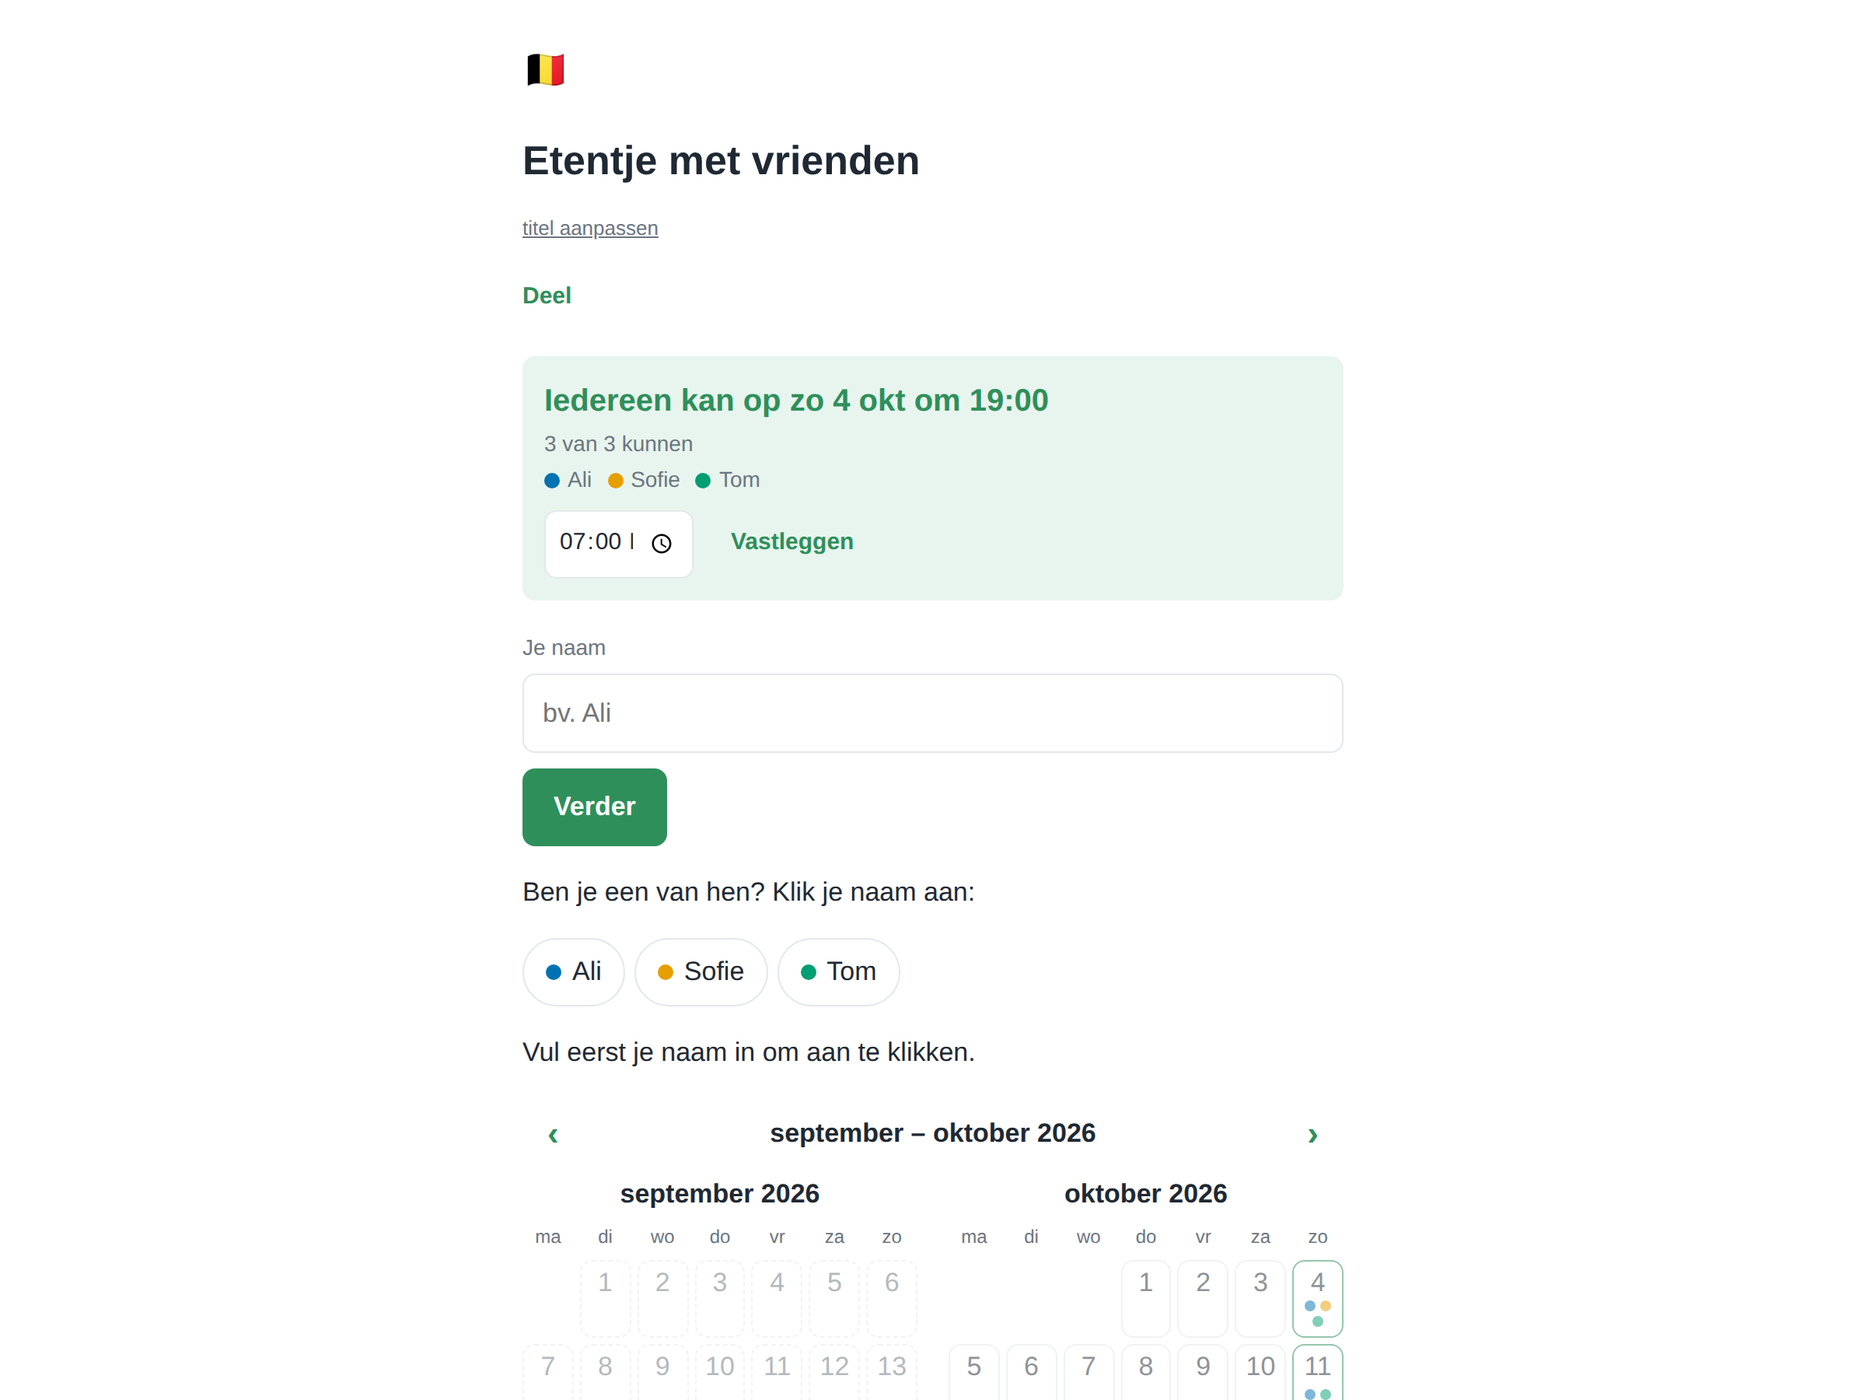
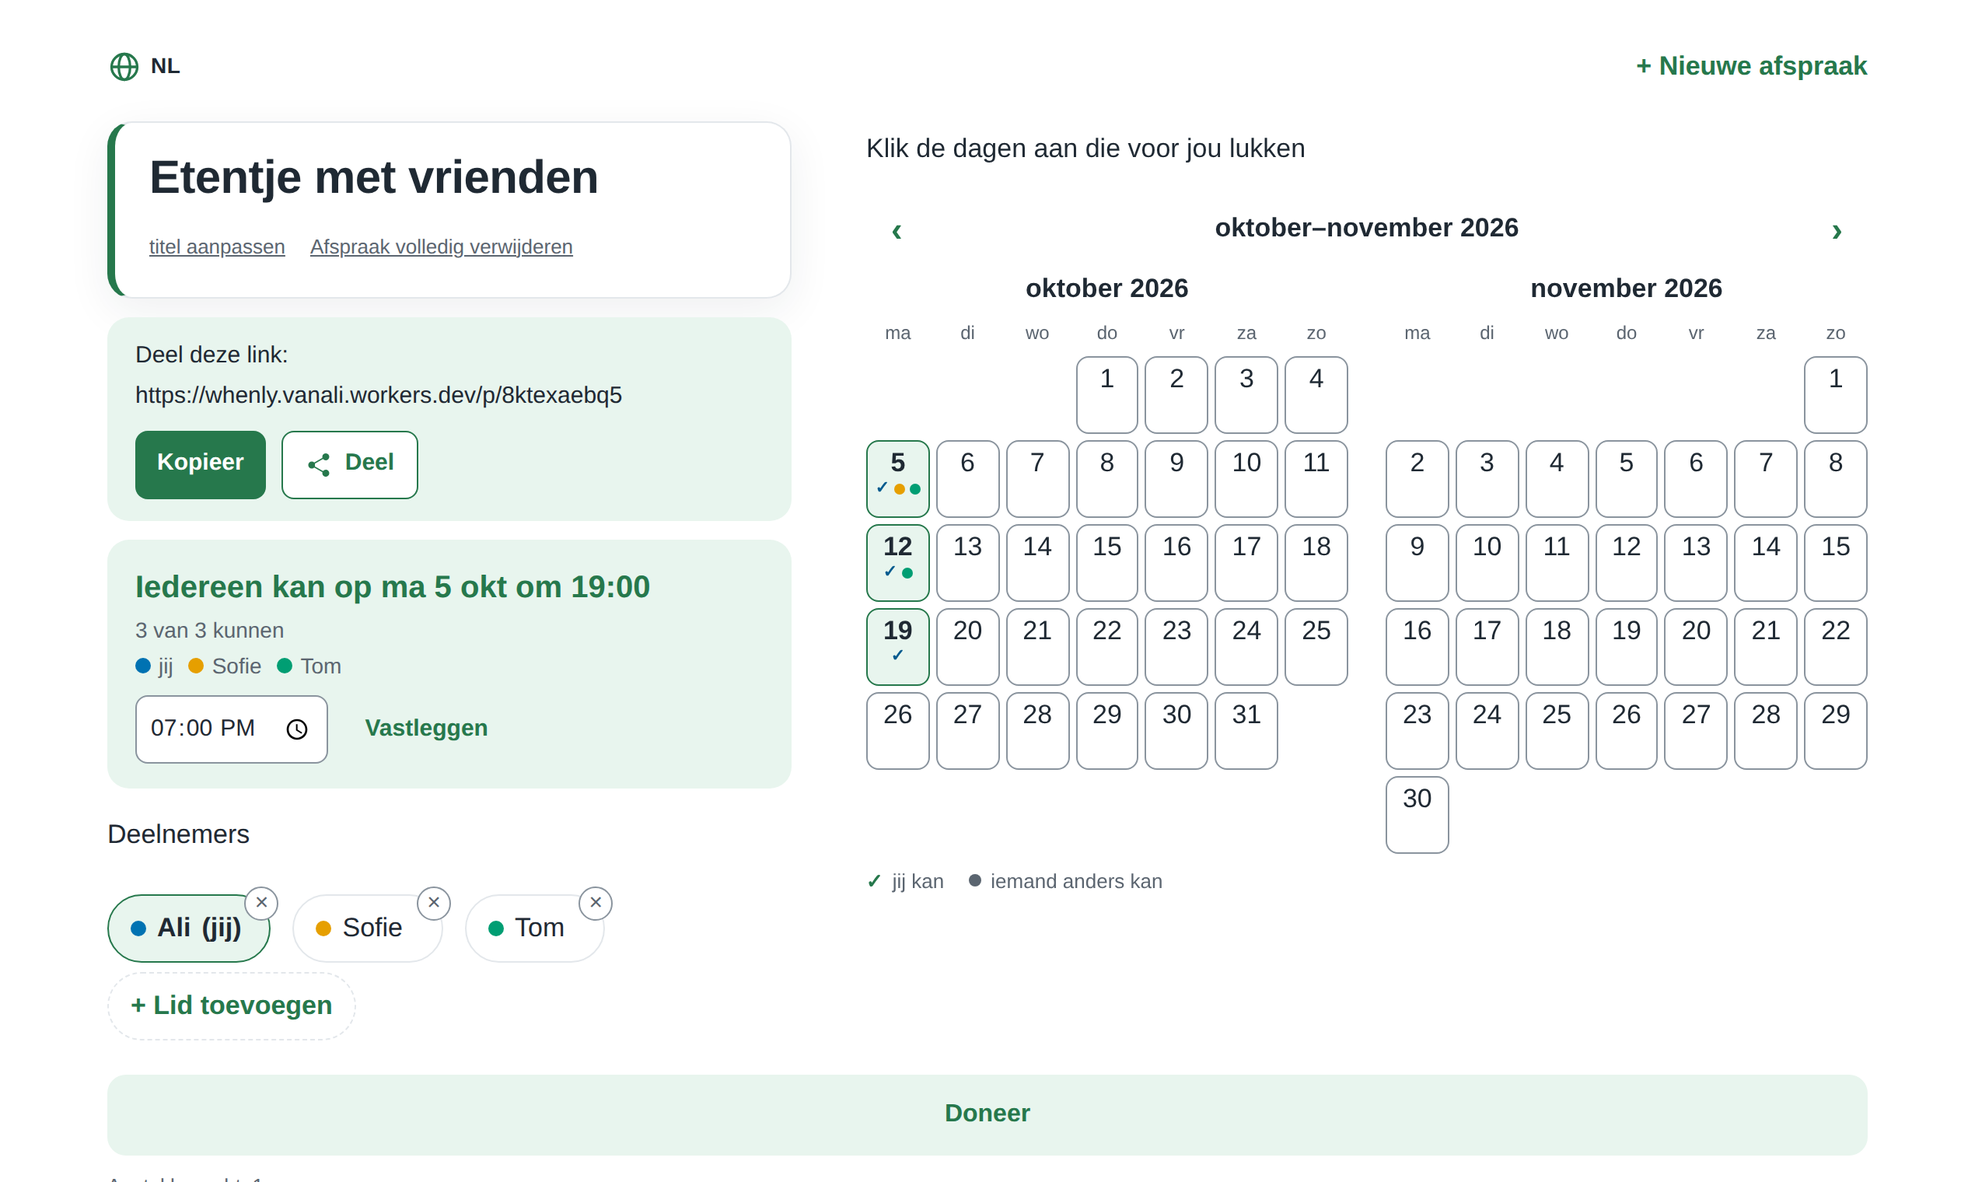
Launchplan, Engelse README en nieuwe screenshots (EN/NL, huidige layout)
promo/launch.md: stap-voor-stap globale launch (directories, Show HN, Reddit, Product Hunt)
met plakklare teksten; afzender 'the maker of Whenly', contact enkel via GitHub issues.
awesome-selfhosted geschrapt: eist providervrij en 4 maanden oud. README nu Engels
bovenaan met screenshot, verouderde feiten (3 talen, testaantallen) gecorrigeerd.
promo_shots.mjs: SHOT_LANG=en, SHOT_BASE tegen wrangler dev met echte domeinnaam in de link,
maker als 'jij', confetti uitgevallen.

Claude-Session: https://claude.ai/code/session_01YBjqGnwgd1wQdLWq21mUzT

diff --git a/promo/launch.md b/promo/launch.md
@@ -1,0 +1,185 @@
+# Whenly: globale launch (stap voor stap)
+
+Doel: de eerste echte gebruikers en wat cijfers, via de kanalen waar een maker normaal zijn eigen werk toont. Daarna pas regionaal (Azië, Afrika, Oost-Europa) met die cijfers in de hand; dat staat in `whenly-promokit.md`.
+
+Afspraken die overal gelden:
+
+- Afzender: **Whenly** of **"the maker of Whenly"**. Geen persoonsnaam, geen locatie, geen foto.
+- Contact: alleen **github.com/boulbaal/whenly/issues**. Nergens een e-mailadres.
+- Nooit om upvotes vragen, ook niet aan vrienden. Hacker News en Product Hunt straffen dat af (posts verdwijnen, stemmen tellen niet).
+- Antwoord snel en eerlijk op elke reactie, vooral kritiek. Dat is op HN en PH wat een post laat stijgen, niet de stemmen.
+- Eén kanaal per dag. Niet alles op dezelfde dag, dan kun je de reacties niet bijhouden.
+- Ik plaats niets; jij plakt. Ik maak accounts niet aan.
+
+Status van de tekst hieronder: klaar om te plakken. Pas aan wat je anders wilt zeggen, het is jouw stem.
+
+---
+
+## Stap 0: voor je ergens post (deze week)
+
+1. **GitHub-repo netjes.** README is nu Engels bovenaan met een screenshot, Nederlands eronder. Nog te doen door jou (Settings van de repo, of ik doe het via `gh` als dat op je pc staat):
+   - Description: `Pick a date with a group. No account, no ads, free. 23 languages. Cloudflare Workers + D1, one HTML file.`
+   - Website: `https://whenly.vanali.workers.dev`
+   - Topics: `scheduling`, `date-picker`, `group-scheduling`, `doodle-alternative`, `cloudflare-workers`, `d1`, `pwa`, `i18n`, `no-account`
+2. **Product Hunt-account nu al aanmaken** (jij), onder de naam die je wil, en de komende twee weken af en toe een product upvoten of een reactie schrijven. PH weegt stemmen en posts van gloednieuwe accounts lager. Launch daarom pas in stap 4.
+3. **Hacker News-account** (jij). Ook hier telt leeftijd van het account iets; maak hem nu.
+4. **Google Search Console en Bing Webmaster Tools** (jij, eigen Google/Microsoft-account). Verifiëren kan met een HTML-bestand: geef mij het bestand of de code, ik zet het op de site. Daarna de sitemap indienen: `https://whenly.vanali.workers.dev/sitemap.xml`. Zonder dit weet Google niet dat de 23 taalpagina's bestaan.
+5. **Geen awesome-selfhosted.** Die lijst eist dat software niet van één cloudprovider afhangt en dat het project minstens vier maanden oud is. Whenly draait op Cloudflare Workers + D1 en is één dag oud. Punt 10 uit de promokit vervalt dus. Awesome-lijsten rond scheduling zijn er wel; die zoeken we op zodra er gebruikers zijn.
+6. **Niet doen:** Lobsters (alleen op uitnodiging), BetaList (voor bèta's, betaalde wachtrij), massaal aanmelden bij "launch directories" die om een backlink of geld vragen.
+
+---
+
+## Stap 1: directories (dag 1, ±1 uur, laag risico)
+
+Deze vragen een account (jij) en een korte tekst. Eén keer invullen, daarna niets meer aan doen.
+
+**Korte omschrijving (≤ 160 tekens):**
+
+> Pick a date with your group. No account, no ads, free. One link, everyone taps the days that work. 23 languages, open source.
+
+**Lange omschrijving:**
+
+> Whenly is a free group date picker. You type a title and your name, tap the days that work for you and share the link. Everyone who opens it types their name and taps along; a green banner shows the first day everyone can make. No account for anyone, no e-mail, no ads, no tracking. Works in the browser on any phone, installs as a PWA, and comes in 23 languages including Arabic, Hindi, Chinese, Russian, Swahili, Tamazight, Kurdish and Shona. Anyone with the link can delete the poll completely. Open source (MIT), a single HTML file on Cloudflare Workers.
+
+**Categorie / tags:** scheduling, calendar, group planning, productivity, open source, no signup.
+
+**"Alternative to":** Doodle, When2meet, Rallly, Crab Fit, LettuceMeet, Xoyondo.
+
+Waar:
+
+1. **AlternativeTo** (alternativeto.net → Add an app). Zet Whenly als alternatief voor Doodle en When2meet. Wordt door een redacteur nagekeken; dat duurt dagen tot weken.
+2. **OpenAlternative** (openalternative.co → Submit). Voor open-source alternatieven; Whenly past daar precies. Vraagt de GitHub-URL.
+3. **SaaSHub** (saashub.com → Add a product).
+4. **Uneed** (uneed.best → Submit). Gratis plek staat in een wachtrij van weken; de betaalde overslaan.
+5. **Fazier** (fazier.com → Submit).
+6. **Peerlist** (peerlist.io → Launch): vraagt een profiel; alleen als je dat toch wil.
+
+Screenshots: `promo/assets/shot-desktop-poll-en.png` (1270×760 @2x) en `shot-mobiel-poll-en.png`. Logo: `public/icon-512.png`.
+
+---
+
+## Stap 2: Show HN (dag 2 of 3, een dinsdag t/m donderdag, posten tussen 14:00 en 16:00 Belgische tijd)
+
+Regels van HN voor Show HN: iets dat mensen meteen kunnen proberen (klopt), geen aanmelding nodig (klopt), jij hebt het zelf gemaakt en blijft erbij om vragen te beantwoorden (dat laatste is het belangrijkste: hou de dag vrij).
+
+**URL-veld:** `https://whenly.vanali.workers.dev`
+
+**Titel (max. 80 tekens):**
+
+> Show HN: Whenly – group date picker with no accounts, in 23 languages
+
+**Tekstveld** (HN toont dit onder de link; kort, feitelijk, geen marketingtoon):
+
+> I built this because every time our group of friends wanted to plan a dinner, the tool asked half of them to create an account or showed ads. Whenly is one link: type a title and your name, tap the days that work, share. Whoever opens the link types a name and taps along. A green banner shows the first day everyone can make.
+>
+> Some choices you may find interesting:
+>
+> - No accounts at all, not even for the creator. Identity is your name plus a token in localStorage; the same name on another device gets your ticks back. Anyone with the link can do anything, including deleting the poll. If someone removes a name, the group sees a note for 30 days that a person did it, not the app.
+> - 23 languages, including RTL (Arabic, Urdu) and languages browsers have no Intl data for (Tamazight in Tifinagh, Kurmanji Kurdish, Shona), so the calendar carries its own weekday and month names for those. Week start and 12/24h follow the locale.
+> - One HTML file, no framework, no build step, no external scripts or fonts. Backend is one Cloudflare Worker with D1 (SQLite). Fits in the free plan. Playwright tests run every scenario twice, desktop and 360 px.
+> - Data: title, names, tapped days. Nothing else. Untouched polls are deleted after 12 months.
+>
+> Source (MIT): https://github.com/boulbaal/whenly
+>
+> Happy to hear what breaks, especially in languages I can't read myself.
+
+**Wat je kunt verwachten aan vragen, en eerlijke antwoorden:**
+
+- *"Anyone with the link can delete everything? That's a vandalism problem."* → Yes, by design. It's for groups of friends who already trust each other; the link is a 10-character random code and poll pages aren't indexed. If a group can't trust its members with a link, it needs a different tool. The removed-name note exists so the group knows it was a person.
+- *"Why Cloudflare only? Not self-hostable."* → It runs on Workers + D1 because that's free and zero-ops. It's MIT; the worker is one file with plain SQL, porting to another SQLite host is straightforward. Fair criticism though.
+- *"How do you make money?"* → I don't. There's a donate button. It costs me nothing to run on the free plan.
+- *"How is this different from Rallly / Crab Fit / When2meet?"* → Rallly is the closest and also needs no account; it works with time slots and is a bigger app with paid plans and self-hosting. Crab Fit and When2meet do time grids. Whenly does whole days only, in 23 languages, in one file. If someone needs time slots, say so and point them to Rallly; don't invent claims about other tools.
+- *"The translations are machine-made?"* → They were written with an LLM and checked by me where I can read the language; three of them (Tamazight, Kurdish, Shona) I can't check. Corrections welcome as issues.
+
+---
+
+## Stap 3: Reddit (dag 4 t/m 7, één sub per dag)
+
+Lees vóór elke post de regels in de zijbalk van die sub; ze veranderen, en een verwijderde post is erger dan geen post. Gebruik een account dat al wat geschiedenis heeft; gloednieuwe accounts met alleen een link worden automatisch verwijderd.
+
+**r/SideProject** (zelfpromotie is de bedoeling daar)
+
+Titel:
+> I made a group date picker that needs no accounts from anyone, in 23 languages
+
+Tekst:
+> Whenly: type a title and your name, tap the days that work, share the link. Friends open it, type their name, tap along. Green banner when everyone can make it. No sign-up for anyone, no ads, no tracking, free. 23 languages incl. Arabic, Hindi, Chinese, Swahili. One HTML file on Cloudflare Workers, open source (MIT).
+>
+> https://whenly.vanali.workers.dev
+>
+> Built it because Doodle kept asking my friends to register. Would love to know where it breaks for you.
+
+**r/InternetIsBeautiful** (eist: gratis, geen aanmelding; flair "I Made This"; controleer of tools/apps nog toegelaten zijn)
+
+Titel:
+> Whenly: pick a date with a group without anyone creating an account, free and in 23 languages
+
+Geen tekst nodig; de link is de post.
+
+**r/opensource**
+
+Titel:
+> Whenly: an MIT-licensed group date picker with no accounts, one HTML file on Cloudflare Workers
+
+Tekst: de Show HN-tekst, ingekort tot de eerste alinea plus de vier punten, met de GitHub-link bovenaan.
+
+**r/webdev**: alleen op **Showoff Saturday** (zaterdag), anders wordt het verwijderd. Zelfde tekst als r/SideProject, met één technische alinea erbij (single file, no framework, Playwright on two viewports).
+
+**r/selfhosted**: overslaan. Whenly is niet zelf te hosten buiten Cloudflare; daar krijg je terecht kritiek.
+
+---
+
+## Stap 4: Product Hunt (week 3, een dinsdag of woensdag; de dag begint om 09:01 Belgische tijd, 12:01 am Pacific)
+
+Voorbereiden op PH kan je een paar dagen vooraf; kies dan de launchdatum.
+
+**Naam:** Whenly
+
+**Tagline (max. 60 tekens):**
+> Pick a date with your group. No account, no ads, free.
+
+**Omschrijving:** de lange omschrijving uit stap 1.
+
+**Topics:** Productivity, Calendar, Open Source, Meetings.
+
+**Galerij** (1270×760): `shot-desktop-poll-en.png`, `shot-desktop-home-en.png`, `shot-mobiel-poll-en.png` (zet die op een achtergrond van 1270×760, of laat mij dat doen). Eerste beeld: de afspraakpagina met het groene "Everyone can make …". Geen logo als eerste beeld.
+
+**Thumbnail:** `public/icon-512.png`.
+
+**Eerste reactie (jij, meteen na de launch; dit is wat mensen lezen):**
+
+> Hi everyone. I'm the maker of Whenly.
+>
+> The problem: planning a dinner with six friends means one of them can't be bothered to create an account, and the poll dies. Whenly asks nothing of anyone: one link, type your name, tap the days that work. A green banner shows the first day everyone can make.
+>
+> A few things I cared about:
+> - No accounts, no e-mail, no ads, no tracking. Only the title, names and days are stored, and anyone with the link can delete the whole poll.
+> - 23 languages, right-to-left included, picked from your browser. The FAQ and privacy page are translated too.
+> - Light: one HTML file, no app to install (it works as a PWA if you want it on your home screen). Fine on slow connections.
+> - Free, and it stays free. Open source under MIT.
+>
+> I'd love to hear where it breaks, and which language reads badly. I'll be here all day.
+
+**Makers:** alleen jouw PH-profiel. Geen "hunter" zoeken; PH weegt bekende hunters niet meer zwaarder.
+
+**Niet doen:** vrienden vragen om te stemmen, links naar de PH-pagina in groepen zetten met "please upvote". Wel mag: "we staan vandaag op Product Hunt, kijk gerust" zonder om een stem te vragen.
+
+---
+
+## Stap 5: meten (vanaf dag 1)
+
+- Bezoekers: Cloudflare-dashboard → Workers & Pages → whenly → Metrics (requests per dag). Geen analytics op de site zelf, dat is de afspraak op de privacypagina; het dashboard telt verzoeken, geen personen.
+- Afspraken: `wrangler d1 execute prikdatum --remote --command "SELECT count(*) FROM polls"` vanuit de projectmap.
+- GitHub: sterren en issues.
+
+Na twee weken: cijfers naast de kanalen leggen en beslissen waar de regionale fase begint. Mijn verwachting vooraf, zodat we die kunnen toetsen: Show HN en r/SideProject leveren het meeste, directories bijna niets op korte termijn maar wel zoekverkeer op lange termijn, Product Hunt is een gok die afhangt van de eerste twee uur.
+
+---
+
+## Wat ik zelf nog kan doen zonder account
+
+- Verificatiebestand voor Search Console / Bing op de site zetten zodra jij het geeft.
+- IndexNow (Bing, Yandex, Naver, Seznam) instellen: een sleutelbestand op de site en de sitemap-URL's aanmelden. Google doet niet mee aan IndexNow.
+- Galerijbeelden op maat maken (1270×760 met de telefoonscreenshot op een achtergrond).
+- Een Engelse demo-GIF van 10 seconden voor PH en Reddit (frames staan al in `promo/assets/gif-*-en.png`).
+- Antwoorden helpen schrijven op reacties, als je ze me doorgeeft.

diff --git a/README.md b/README.md
@@ -1,23 +1,37 @@
 # Whenly
 
-**Probeer het live: [whenly.vanali.workers.dev](https://whenly.vanali.workers.dev)**
+**Pick a date with a group. No account, no ads, free.** → **[whenly.vanali.workers.dev](https://whenly.vanali.workers.dev)**
 
-**Een datum prikken met vrienden, zonder gedoe.** Typ waarover het gaat en je naam, en je staat op de afsprakenpagina met een open kalender. Dagen die lukken klik je gewoon aan. Deel de link; wie hem opent geeft eerst zijn naam en klikt dan mee. Zodra er een datum uitspringt, staat er bovenaan in het groen: *"We hebben een datum!"*
+Type what it's about and your name, and you're on the poll page with an open calendar. Tap the days that work for you. Share the link; whoever opens it types their name and taps along. As soon as everyone can make a day, it says so at the top in green. Nobody needs an account, not even the person who creates the poll.
+
+![Whenly poll page](promo/assets/shot-desktop-poll-en.png)
+
+- **No sign-up, no e-mail, no password.** A link is all a group needs.
+- **One tap per day**, saved instantly. No save button, no confirmation dialogs.
+- **Everyone is equal.** Anyone with the link can tap days, change the title and lock in the date. There is nothing only "the organiser" can do.
+- **23 languages**, picked from your browser and switchable with the globe button: English, Dutch, French, German, Spanish, Portuguese, Polish, Ukrainian, Russian, Turkish, Arabic, Urdu, Hindi, Bengali, Indonesian, Vietnamese, Chinese, Japanese, Korean, Swahili, Tamazight (Tifinagh), Kurdish and Shona. Right-to-left for Arabic and Urdu; week start and 12/24-hour clock per locale. The FAQ and privacy page follow the same language.
+- **Light.** One HTML file, no framework, no build step, no external scripts or fonts. Works on slow connections and installs as a PWA without an app store.
+- **Your data stays yours.** Only the title, names and tapped days are stored. Anyone with the link can delete a poll completely; untouched polls are removed after 12 months. See [/privacy](https://whenly.vanali.workers.dev/privacy).
+- **Open source (MIT)** on Cloudflare Workers + D1; fits in Cloudflare's free plan.
+
+Questions or bugs: [open an issue](https://github.com/boulbaal/whenly/issues).
+
+---
+
+*Nederlands hieronder.*
+
+**Een datum prikken met vrienden, zonder gedoe.** Typ waarover het gaat en je naam, en je staat op de afsprakenpagina met een open kalender. Dagen die lukken klik je gewoon aan. Deel de link; wie hem opent geeft eerst zijn naam en klikt dan mee. Zodra er een datum uitspringt, staat er bovenaan in het groen: *"Iedereen kan op ..."*
 
 Geen accounts. Geen wachtwoorden. Geen beheerder. Geen opslaan-knop. Iedereen met de link kan precies hetzelfde.
-
-*(EN: a zero-friction date picker for groups of friends. No accounts, no admin, just a link. Interface in Dutch, English and French.)*
-
-![Whenly](docs/screenshot.png)
 
 ## Waarom dit fijn werkt
 
 - **Het gaat vanzelf** — een klik op een kalenderdag is meteen opgeslagen; er is geen opslaan-knop en geen enkel bevestigingsvenster. Een uur erbij zetten is optioneel en verschijnt pas bij de datum die eruit springt.
 - **Iedereen ziet zijn naam, in kleur** — elke deelnemer krijgt een vaste kleur. Op de kalender staat een vinkje in jouw kleur bij je eigen dagen en een gekleurd stipje per andere persoon die kan.
 - **Iedereen is gelijk** — wie de link heeft kan dagen aanklikken, de titel aanpassen, het uur wijzigen en de knoop doorhakken. Er is niets dat alleen "de maker" kan.
-- **Je naam is je identiteit** — dezelfde naam op een ander toestel geeft je je eigen vinkjes terug. En via "iemand anders invullen" zet je tijdelijk de dagen van iemand die je die al doorgaf, zonder je eigen naam te verliezen.
-- **Nooit iets kapot** — je kunt alleen weghalen wat van jezelf is of wat niemand anders gebruikt.
-- **23 talen** (o.a. Nederlands, Engels, Frans, Arabisch, Hindi, Chinees, Russisch, Tamazight, Koerdisch, Shona), automatisch op basis van je browser, wisselbaar via de wereldbol, zonder herladen. Rechts-naar-links voor Arabisch en Urdu, weekstart en tijdnotatie per land.
+- **Je naam is je identiteit** — dezelfde naam op een ander toestel geeft je je eigen vinkjes terug. Via "Lid toevoegen" vul je de dagen in van iemand die ze je al doorgaf, zonder je eigen naam te verliezen.
+- **Jij beslist over je gegevens** — iedereen met de link kan een naam weghalen (de groep ziet dan 30 dagen wie dat deed, niet de app) of de afspraak volledig verwijderen. Afspraken zonder activiteit verdwijnen na 12 maanden.
+- **23 talen** (o.a. Nederlands, Engels, Frans, Arabisch, Hindi, Chinees, Russisch, Tamazight, Koerdisch, Shona), automatisch op basis van je browser, wisselbaar via de wereldbol, zonder herladen. Rechts-naar-links voor Arabisch en Urdu, weekstart en tijdnotatie per land. FAQ en privacypagina in dezelfde 23 talen.
 - **Licht en gratis** — één HTML-bestand, één Worker, één SQLite-database (Cloudflare D1). Geen frameworks, geen build-stap, geen externe scripts of fonts. Past ruim binnen het gratis plan van Cloudflare.
 
 ## Techniek
@@ -26,9 +40,9 @@ Geen accounts. Geen wachtwoorden. Geen beheerder. Geen opslaan-knop. Iedereen me
 |---|---|
 | Hosting | Cloudflare Workers (gratis plan) met Static Assets |
 | Opslag | Cloudflare D1 (SQLite) |
-| Frontend | Eén `public/index.html`, inline CSS + JS, systeemfont |
-| Backend | Eén `src/worker.js` (ES-module Worker), alleen `/api/*` |
-| Testen | Playwright: 17 API-testen + 12 browserscenario's, ook op 360 px |
+| Frontend | Eén `public/index.html`, inline CSS + JS, systeemfonts (enkel Tifinagh meegeleverd) |
+| Backend | Eén `src/worker.js` (ES-module Worker): `/api/*`, taalpagina's, dagelijkse opruiming |
+| Testen | Playwright: 20 API-testen, 21 browserscenario's en 5 statische controles, elk op desktop en op 360 px |
 
 ## Testen draaien
 
